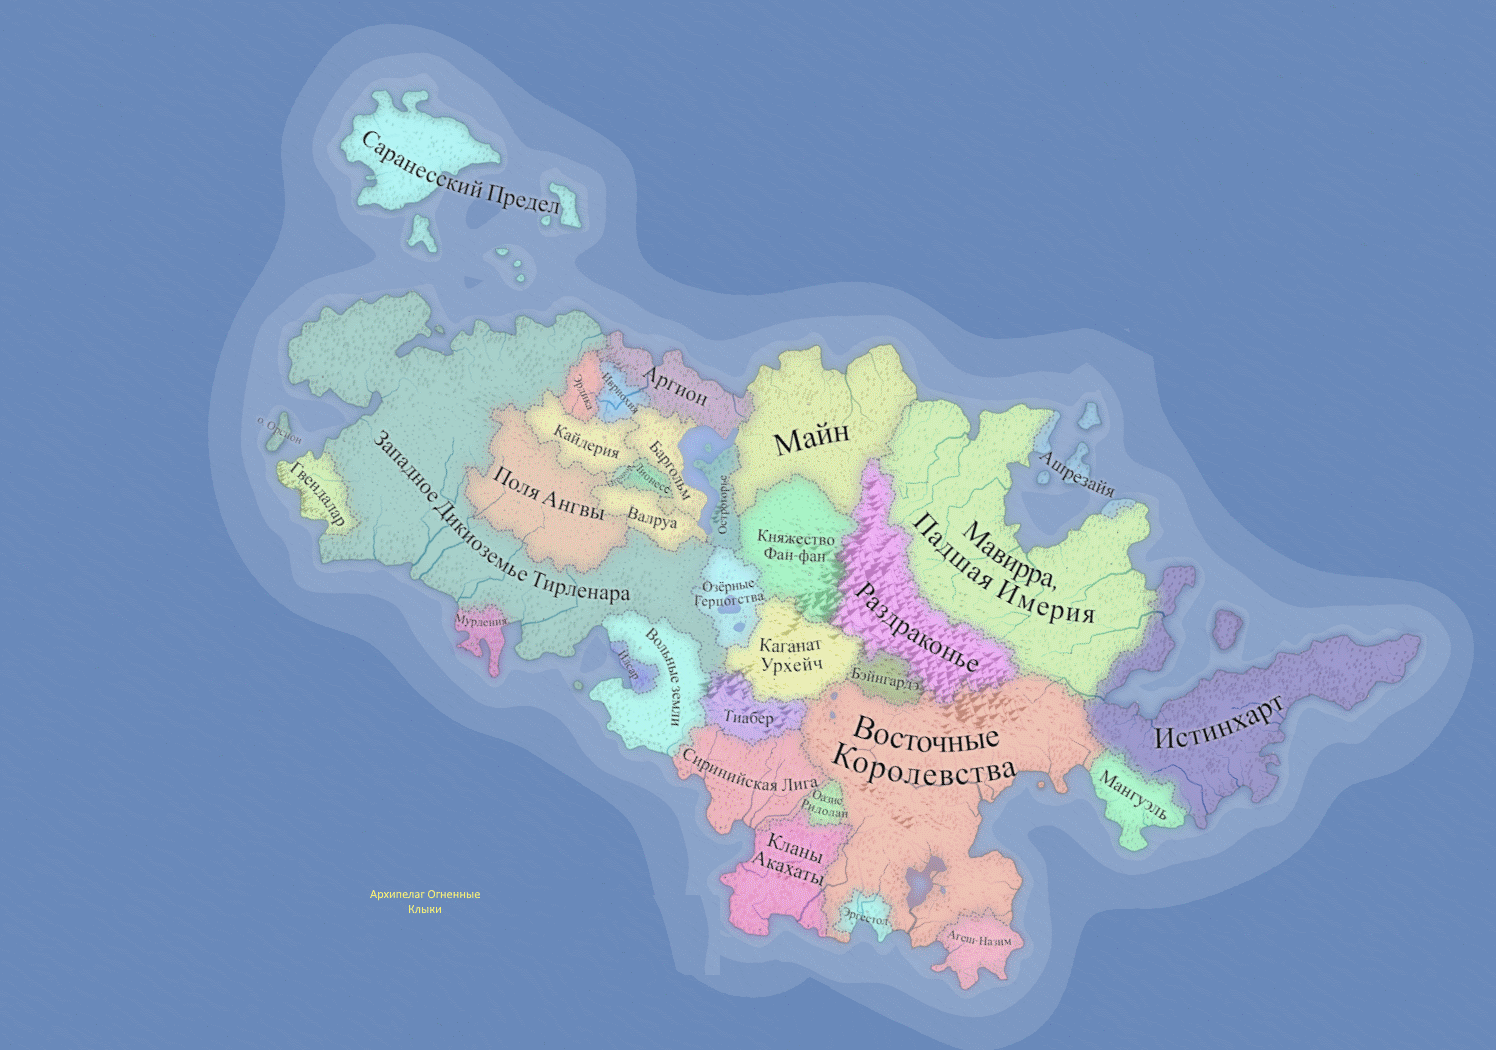
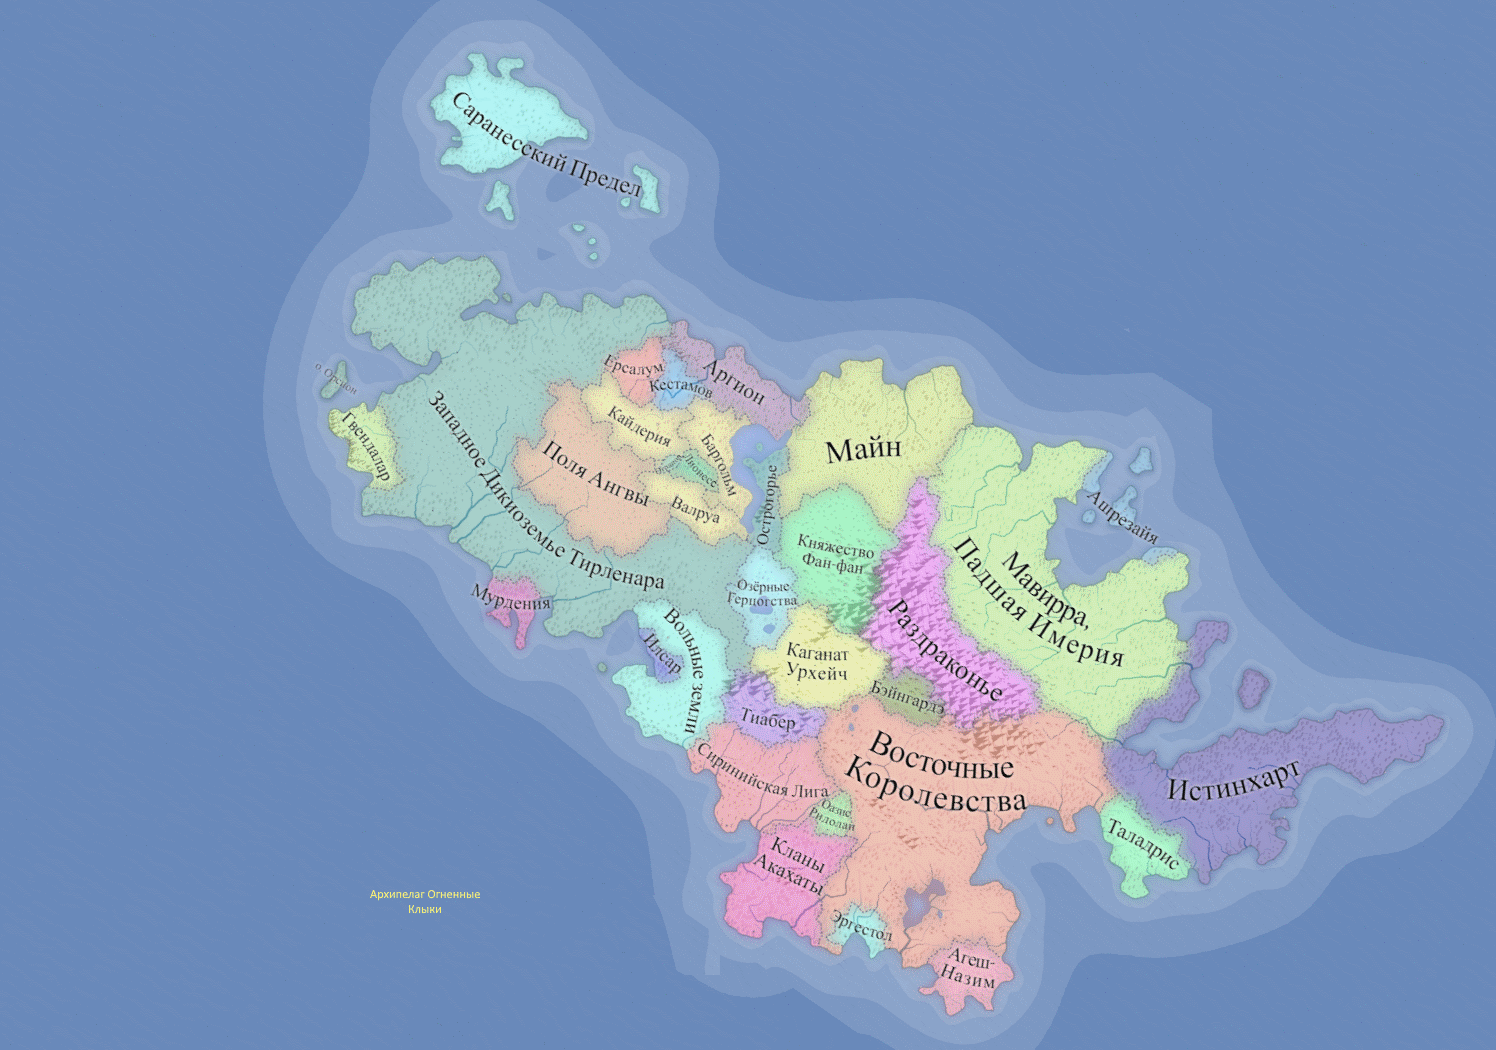
Map upd 0.2.1

Changed region(s): [[0.1537, 0.0, 0.984, 0.9752]]

diff --git a/docs/lore/world-geography.md b/docs/lore/world-geography.md
@@ -1,5 +1,5 @@
 ## Карта мира
-> _Версия карты: 0.2.0_  
+> _Версия карты: 0.2.1_  
   Примечание ДМ: белые пятна на карте - это не баг, а фича. Текущие проблемы карты: надо выровнять названия стран, а также нарисовать острова (пока что это проблема в такой наклонённой версии).
 
 <p style="text-align: center">
